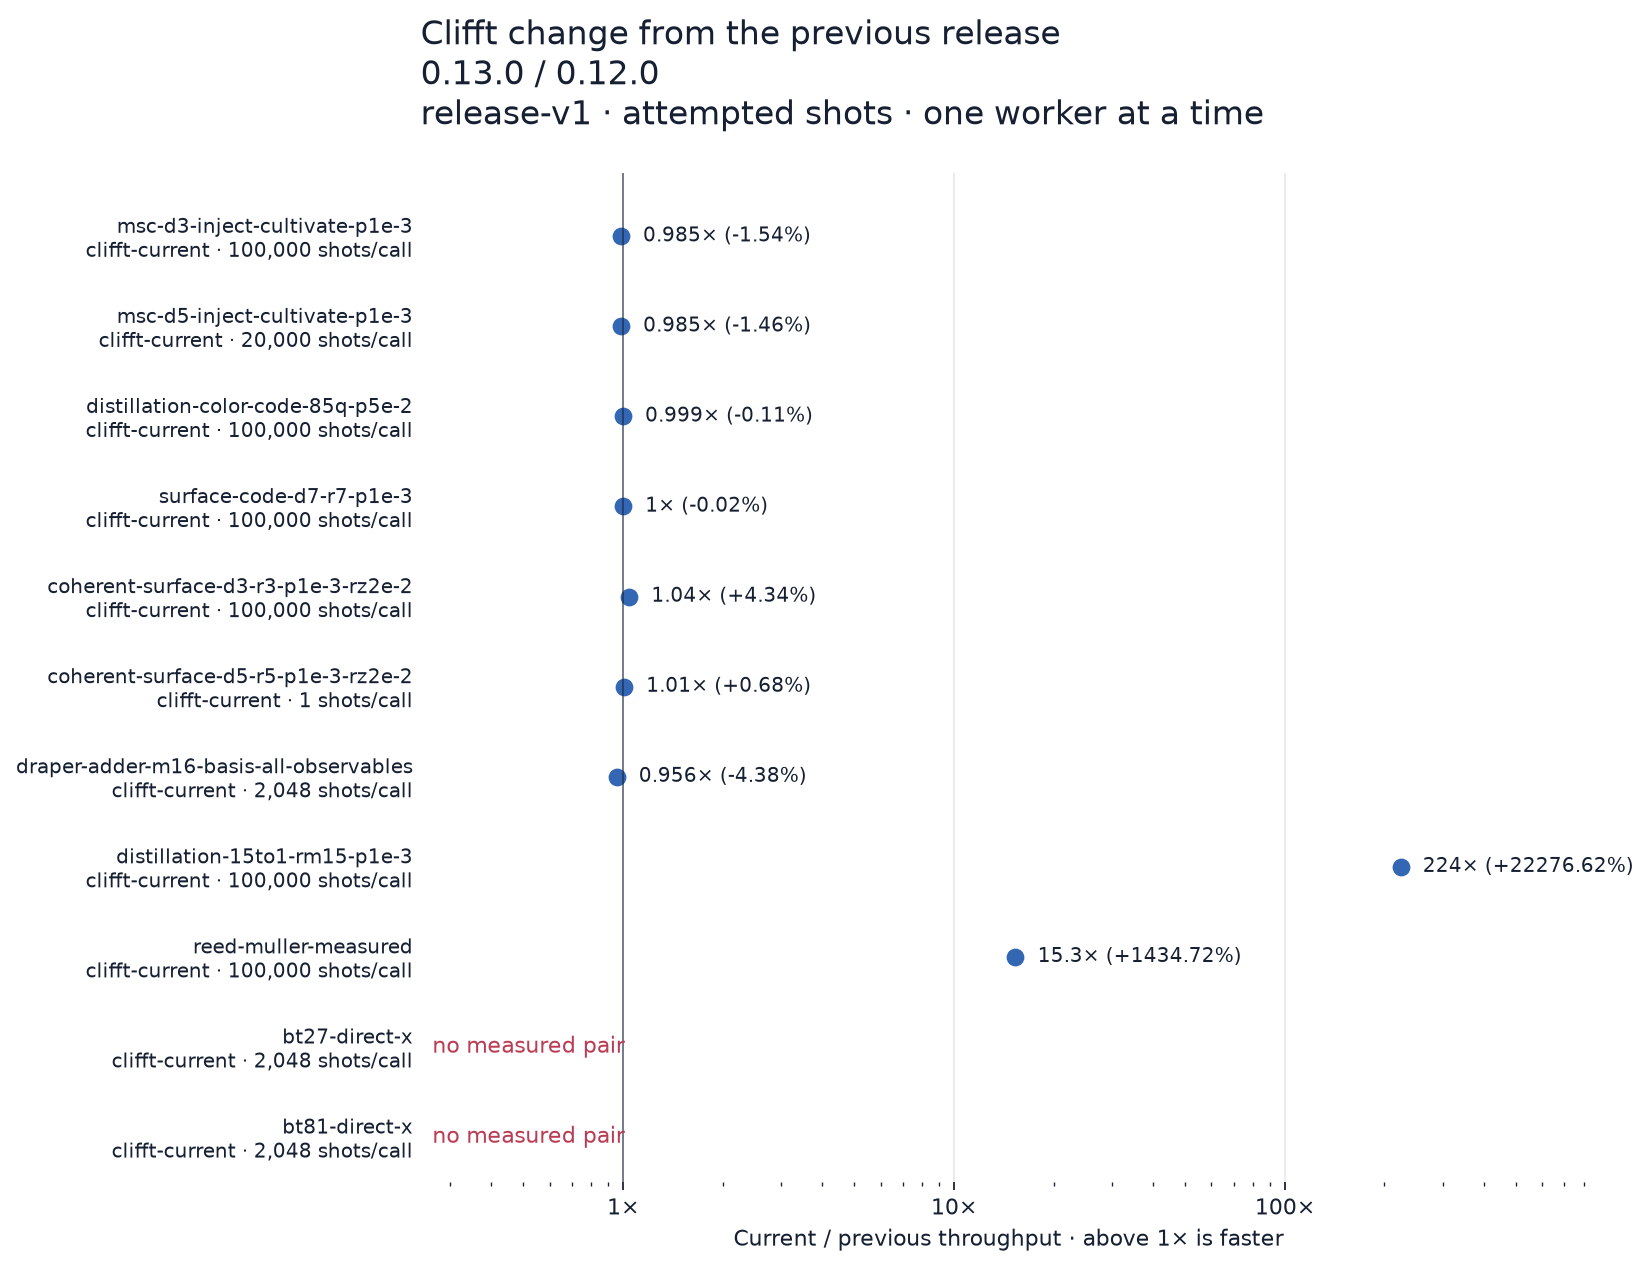
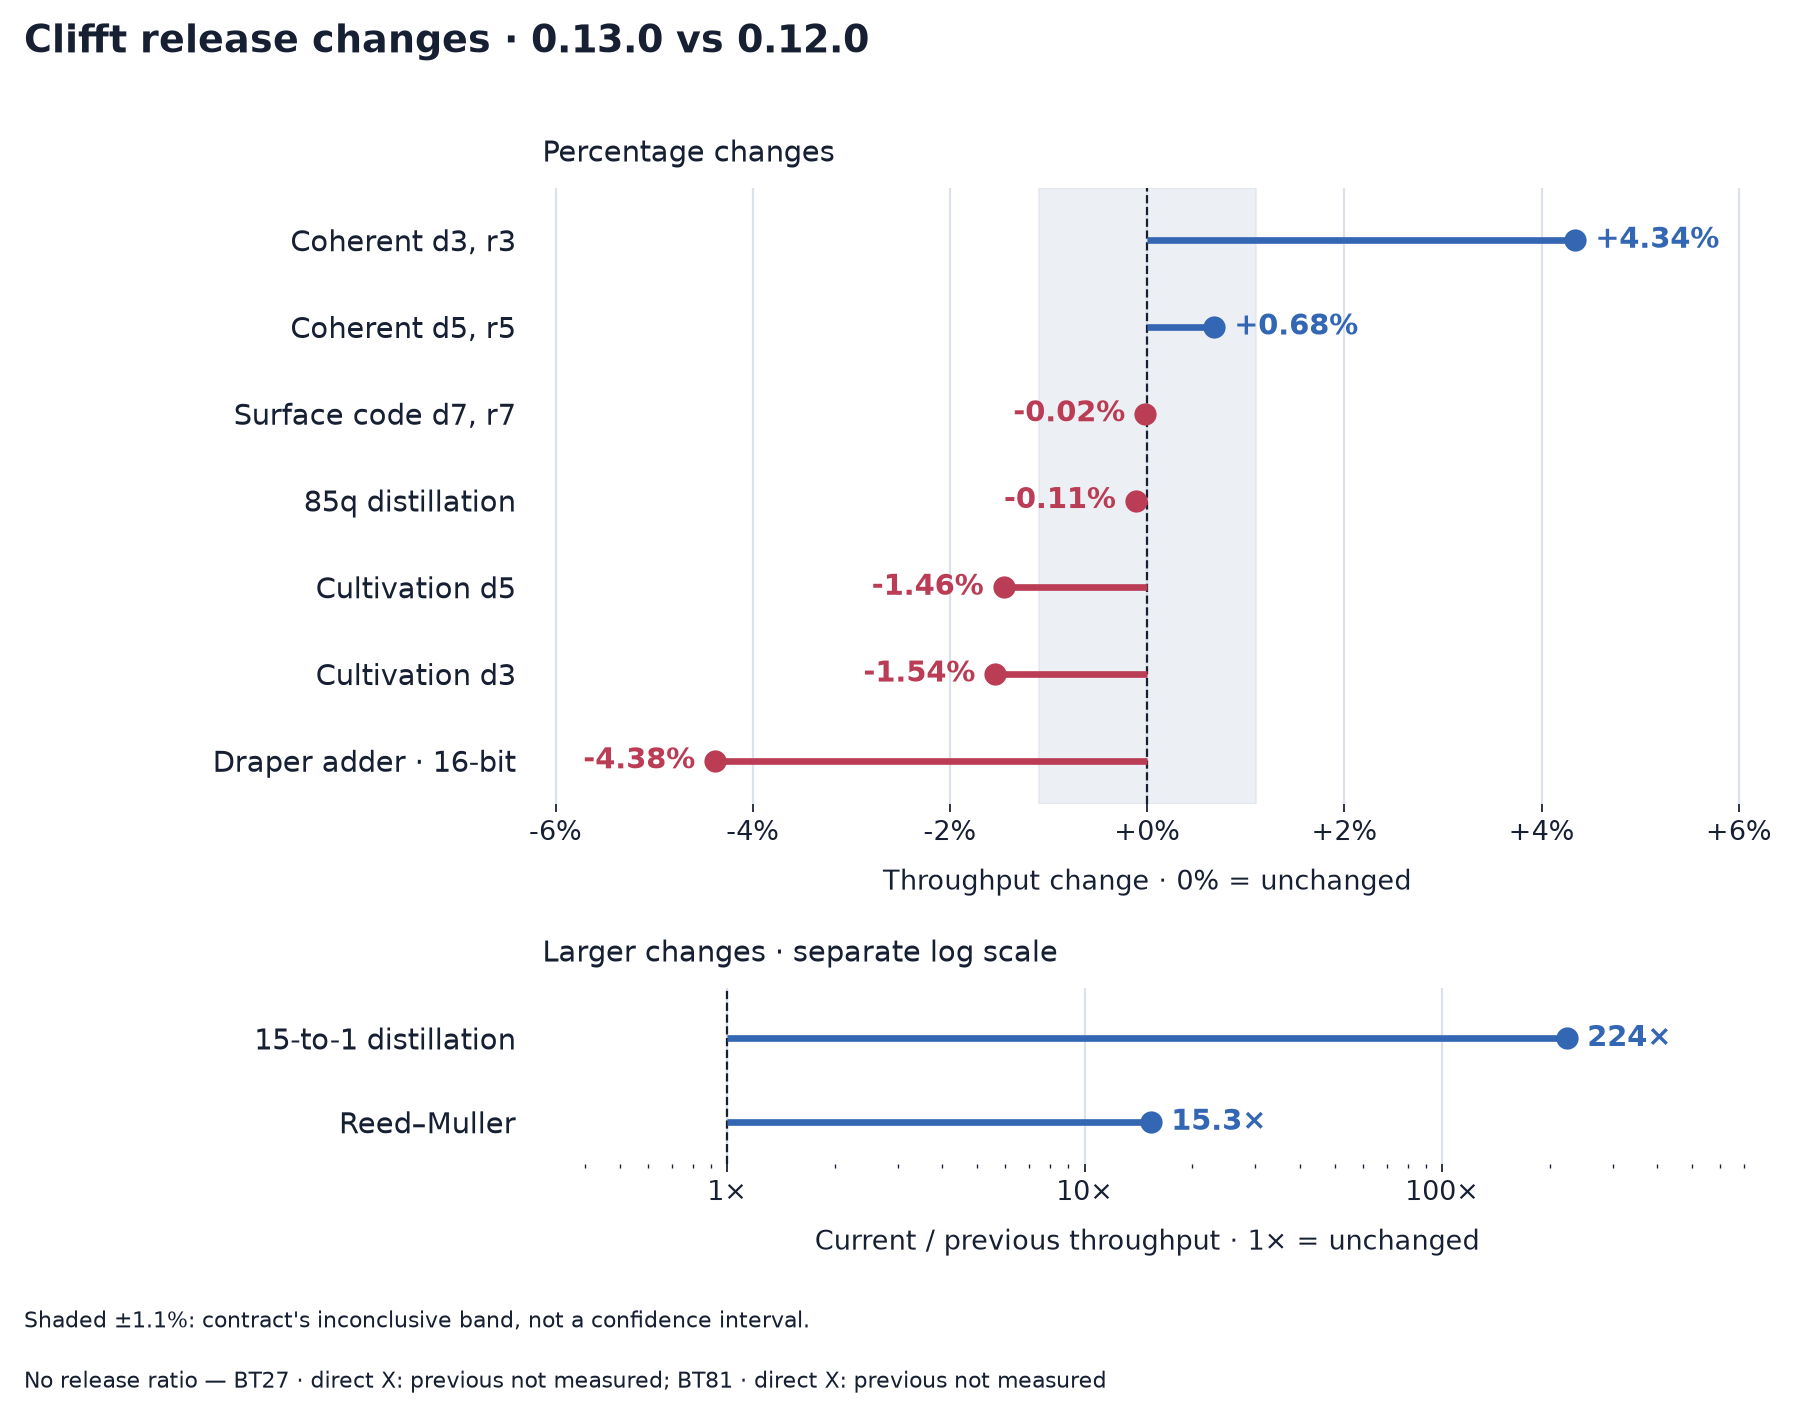
Regenerate Clifft 0.13rc1 comparison figures
Render the existing recorded execution with readable workload panels and light/dark themes. Keep raw evidence and the cases CSV unchanged.

Assisted-by: Codex (GPT-6) <noreply@openai.com>

diff --git a/results/release-v1/0.13.0rc1-20261103-183623/report/review.md b/results/release-v1/0.13.0rc1-20261103-183623/report/review.md
@@ -184,3 +184,93 @@ Bulk and short calls remain separate. Missing baselines are not regressions.
 | coverage-alternatives-vs-current | quantum-volume-q20-seed42-all-observables | stim-coverage | — | baseline: measured; candidate: unsupported |
 | coverage-alternatives-vs-current | msc-d7-proxy-unverified-p1e-3 | stim-coverage | — | baseline: measured; candidate: unsupported |
 | coverage-alternatives-vs-current | msc-full-d5-cultivation-selected-p1e-3 | stim-coverage | — | baseline: measured; candidate: unsupported |
+
+## Figures
+
+Rates count attempted shots and exclude compilation; lazy planning during sampling
+is included. Workload call sizes appear on each row. Colors and marker shapes
+identify implementations consistently across figures. Unsupported pairings have
+no marker; unmeasured and failed cases are labeled. Exact identities and outcomes
+are recorded above and in cases.csv.
+
+Release changes within ±50% use a linear percentage axis; larger changes use
+a separate logarithmic ratio panel. The shaded ±1.1% band is the contract's
+inconclusive region, not a confidence interval. Unpaired workloads have no ratio.
+
+### Clifft — QEC · all-detector postselection
+
+[Dark version](clifft-throughput-dark.png)
+
+![Clifft — QEC · all-detector postselection](clifft-throughput-light.png)
+
+### Clifft — Arithmetic and code switching · postselection off
+
+[Dark version](clifft-throughput-2-dark.png)
+
+![Clifft — Arithmetic and code switching · postselection off](clifft-throughput-2-light.png)
+
+### Clifft — Bulk calls
+
+[Dark version](clifft-throughput-3-dark.png)
+
+![Clifft — Bulk calls](clifft-throughput-3-light.png)
+
+### Clifft — Selection controls · postselection off
+
+[Dark version](clifft-throughput-4-dark.png)
+
+![Clifft — Selection controls · postselection off](clifft-throughput-4-light.png)
+
+### Clifft — Dense Quantum Volume · repeated sampling
+
+[Dark version](clifft-throughput-5-dark.png)
+
+![Clifft — Dense Quantum Volume · repeated sampling](clifft-throughput-5-light.png)
+
+### Clifft — Cultivation stress workloads
+
+[Dark version](clifft-throughput-6-dark.png)
+
+![Clifft — Cultivation stress workloads](clifft-throughput-6-light.png)
+
+### CPU simulators — QEC · all-detector postselection
+
+[Dark version](simulator-throughput-dark.png)
+
+![CPU simulators — QEC · all-detector postselection](simulator-throughput-light.png)
+
+### CPU simulators — Arithmetic and code switching · postselection off
+
+[Dark version](simulator-throughput-2-dark.png)
+
+![CPU simulators — Arithmetic and code switching · postselection off](simulator-throughput-2-light.png)
+
+### CPU simulators — Bulk calls
+
+[Dark version](simulator-throughput-3-dark.png)
+
+![CPU simulators — Bulk calls](simulator-throughput-3-light.png)
+
+### CPU simulators — Selection controls · postselection off
+
+[Dark version](simulator-throughput-4-dark.png)
+
+![CPU simulators — Selection controls · postselection off](simulator-throughput-4-light.png)
+
+### CPU simulators — Dense Quantum Volume · repeated sampling
+
+[Dark version](simulator-throughput-5-dark.png)
+
+![CPU simulators — Dense Quantum Volume · repeated sampling](simulator-throughput-5-light.png)
+
+### CPU simulators — Cultivation stress workloads
+
+[Dark version](simulator-throughput-6-dark.png)
+
+![CPU simulators — Cultivation stress workloads](simulator-throughput-6-light.png)
+
+### Release changes
+
+[Dark version](release-change-dark.png)
+
+![Release changes](release-change-light.png)
